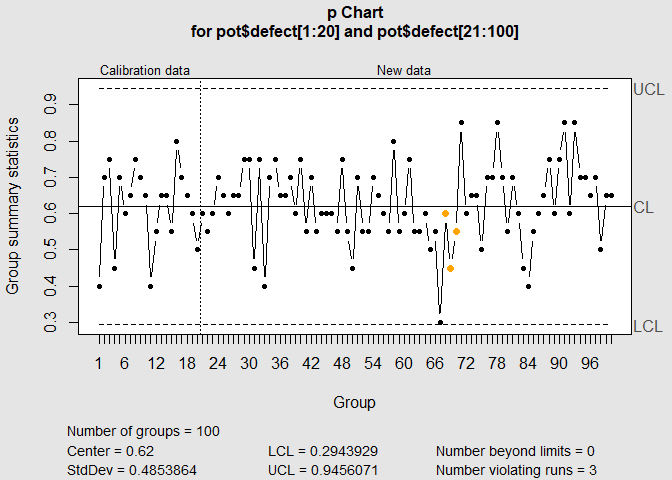
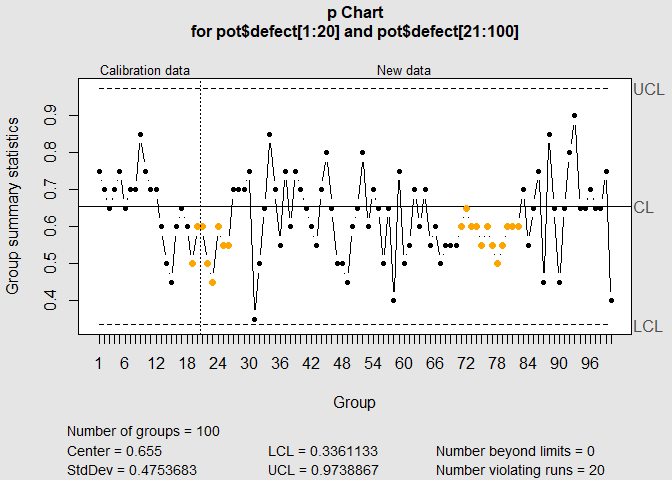
update rmd

diff --git a/quality-control.md b/quality-control.md
@@ -94,20 +94,20 @@ with(pot, qcc(pot$defect[1:20], pot$size[1:20], type = "p", newdata=pot$defect[2
     ##  $ call        : language qcc(data = pot$defect[1:20], type = "p", sizes = pot$size[1:20], newdata = pot$defect[21:100],      newsizes = pot$size[21:100])
     ##  $ type        : chr "p"
     ##  $ data.name   : chr "pot$defect[1:20]"
-    ##  $ data        : num [1:20, 1] 8 14 15 9 14 12 13 15 14 13 ...
+    ##  $ data        : num [1:20, 1] 15 14 13 14 15 13 14 14 17 15 ...
     ##   ..- attr(*, "dimnames")=List of 2
-    ##  $ statistics  : Named num [1:20] 0.4 0.7 0.75 0.45 0.7 0.6 0.65 0.75 0.7 0.65 ...
+    ##  $ statistics  : Named num [1:20] 0.75 0.7 0.65 0.7 0.75 0.65 0.7 0.7 0.85 0.75 ...
     ##   ..- attr(*, "names")= chr [1:20] "1" "2" "3" "4" ...
     ##  $ sizes       : num [1:20] 20 20 20 20 20 20 20 20 20 20 ...
-    ##  $ center      : num 0.62
-    ##  $ std.dev     : num 0.485
-    ##  $ newstats    : Named num [1:80] 0.6 0.55 0.6 0.7 0.65 0.6 0.65 0.65 0.75 0.75 ...
+    ##  $ center      : num 0.655
+    ##  $ std.dev     : num 0.475
+    ##  $ newstats    : Named num [1:80] 0.6 0.5 0.45 0.6 0.55 0.55 0.7 0.7 0.7 0.75 ...
     ##   ..- attr(*, "names")= chr [1:80] "21" "22" "23" "24" ...
-    ##  $ newdata     : num [1:80, 1] 12 11 12 14 13 12 13 13 15 15 ...
+    ##  $ newdata     : num [1:80, 1] 12 10 9 12 11 11 14 14 14 15 ...
     ##  $ newsizes    : num [1:80] 20 20 20 20 20 20 20 20 20 20 ...
     ##  $ newdata.name: chr "pot$defect[21:100]"
     ##  $ nsigmas     : num 3
-    ##  $ limits      : num [1:100, 1:2] 0.294 0.294 0.294 0.294 0.294 ...
+    ##  $ limits      : num [1:100, 1:2] 0.336 0.336 0.336 0.336 0.336 ...
     ##   ..- attr(*, "dimnames")=List of 2
     ##  $ violations  :List of 2
     ##  - attr(*, "class")= chr "qcc"
